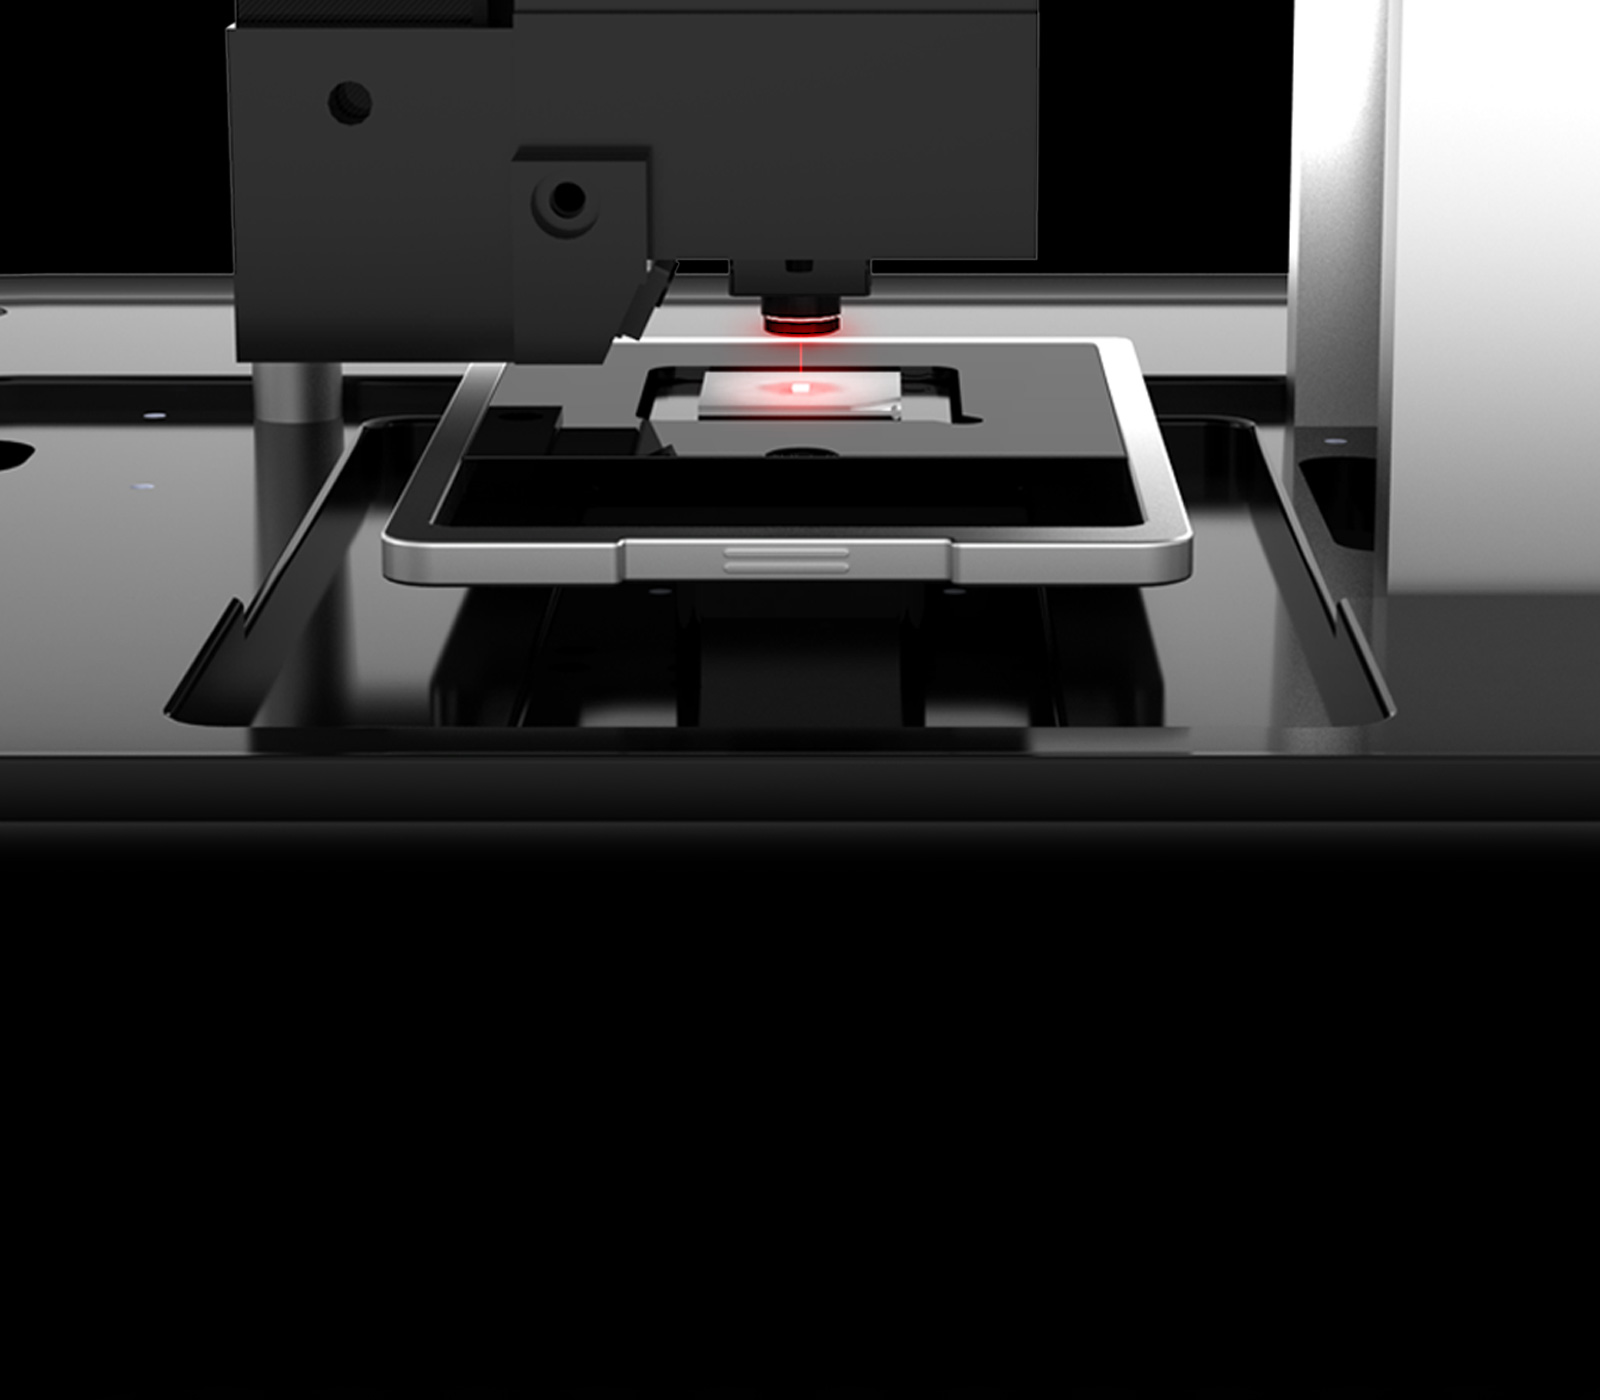
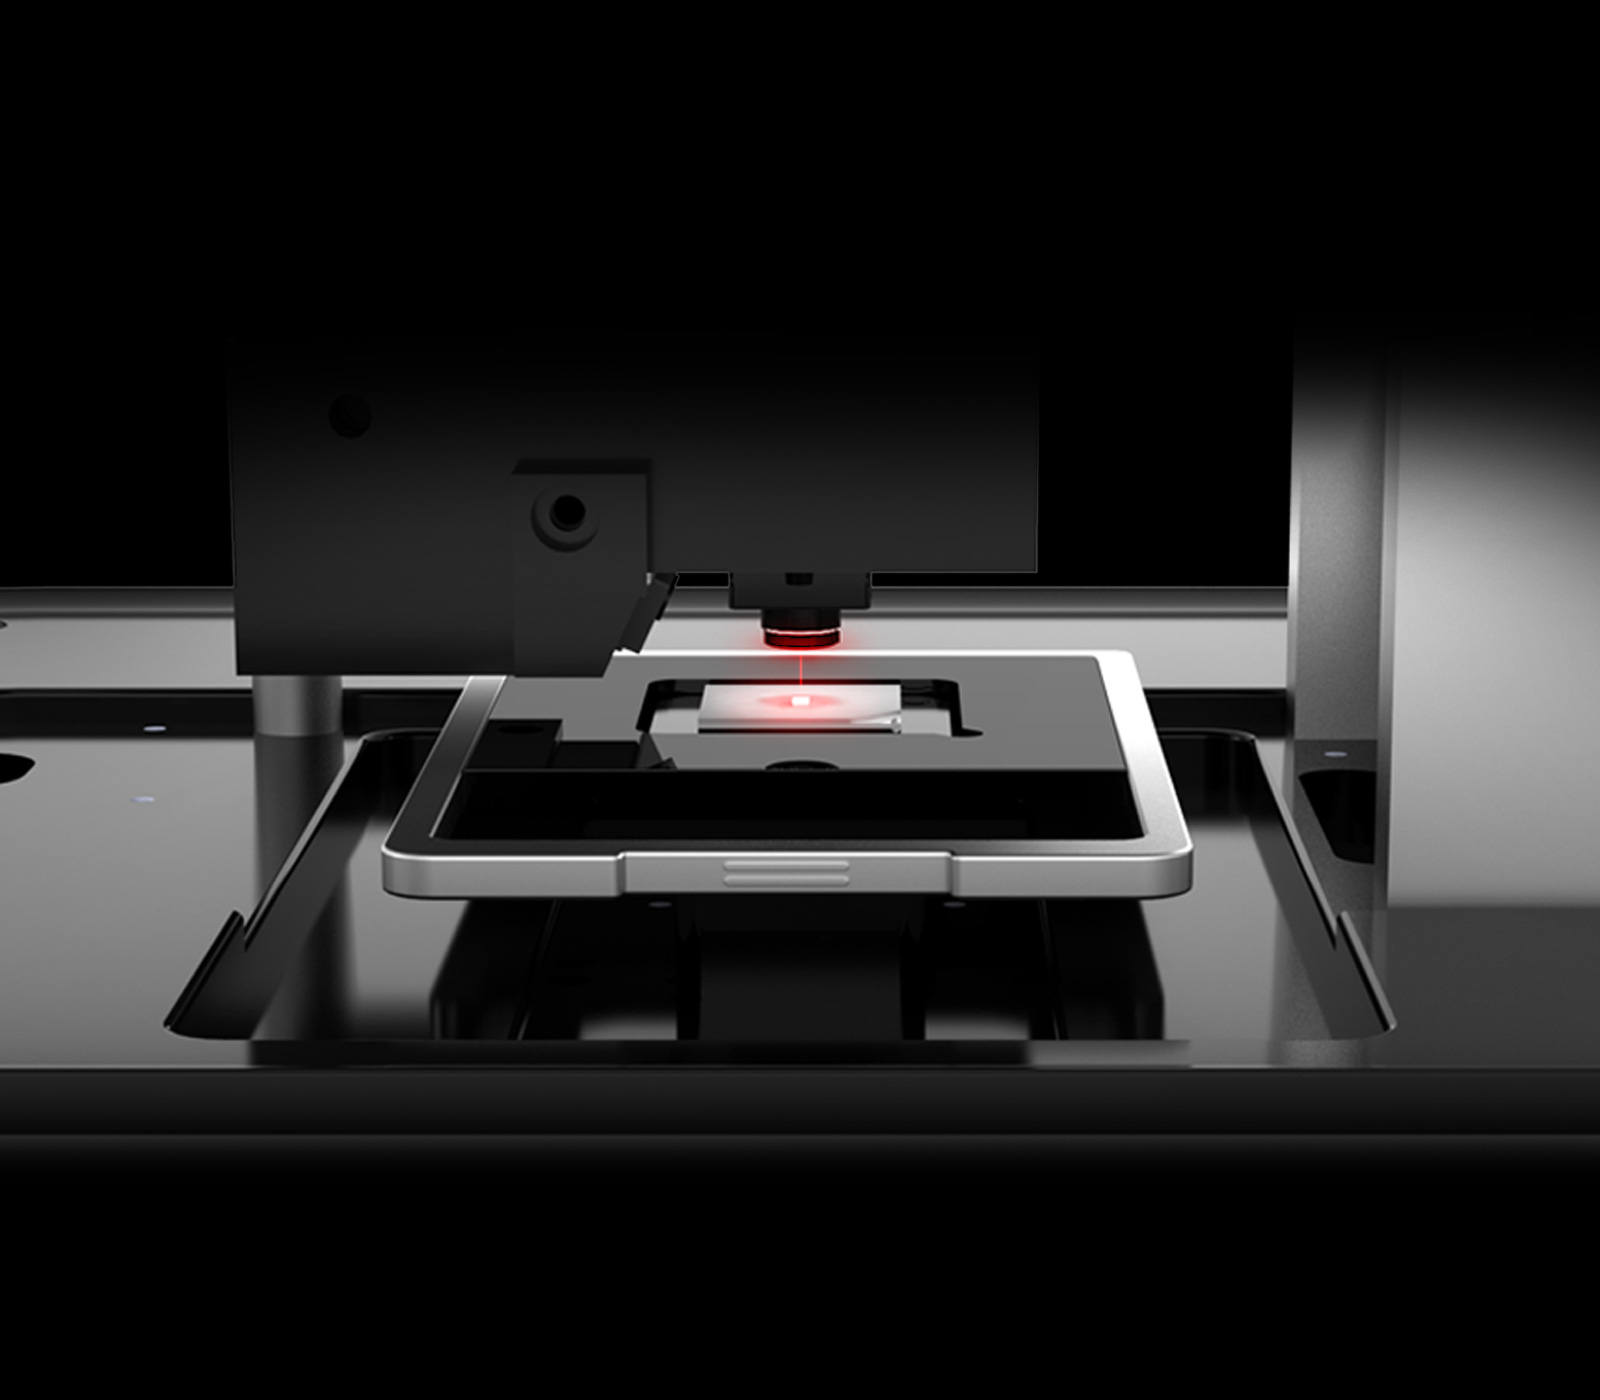
總是在拉點點

diff --git a/product.html b/product.html
@@ -94,6 +94,7 @@
             data-7500 = "top:-100%"
         >
             <div class="content-wrap">
+                <div class="overview-bg"></div>
                 <div class="m150">M150</div>
                 <div class="m150-title"
                     data-0="top:80px"
@@ -194,6 +195,7 @@
         >
             <div class="content-wrap-580"
             >
+                <div class="features-bg"></div>
                 <h2
                     data-7500="opacity:0;padding-top:0px"
                     data-8400="opacity:1;padding-top:40px"
@@ -320,11 +322,14 @@
             data-21000 = "position: fixed; top:100%;opacity:0"
             data-22000 = "position: fixed; top:0;opacity:1"
             data-22100 = "position: fixed; top:0;"
+            data-28100 = "top:0%;opacity:1"
+            data-31000 = "top:-100%:opacity:0"
         >
             <div class="content-wrap-580">
+                <div class="ccd-bg"></div>
                 <div class="CCD-headline"
                     data-22000="top:0%;opacity:0;"
-                    data-23500="top:25%;opacity:1;"
+                    data-23500="top:15%;opacity:1;"
                 >
                 Small-field and large-field CCDs for sample positioning
                 </div>
@@ -332,32 +337,89 @@
                     data-23500="opacity:0"
                     data-24500="opacity:1"
                 class="CCD-light"></div>
+
+                <div class="ccd01 scrollWindow"
+                    data-25000="opacity:0"
+                    data-25500="opacity:1"
+                    data-26400="left:1304px;background-position: 0px 0px"
+                    data-28000="left:-1304px;background-position: 300px 0px"
+                    data-28010="opacity:1"
+                    data-28020="opacity:0"
+
+                >
+                    <div class="ccd01-wrap textWindow ">
+                        <div class="ccd01-text contentWindow">
+                            <h2>Mesurement</h2>
+                            <hr>
+                            <p>
+                                Non-contact and zero
+                                mass-loading, resulting in
+                                no change in stiffness to
+                                the sample
+                            </p>
+                        </div><!-- /ccd01-text -->
+                    </div><!-- /ccd01-wrap -->
+                </div><!-- /ccd01 -->
+
+                <div class="ccd02 scrollWindow"
+                    data-25000="opacity:0"
+                    data-25500="opacity:1"
+                    data-26400="left:1904px;background-position: 0px 0px"
+                    data-28000="left:-900px;background-position: 300px 0px"
+                    data-28010="opacity:1"
+                    data-28020="opacity:0"
+                >
+                    <div class="ccd02-wrap textWindow ">
+                        <div class="ccd02-text contentWindow">
+                            <h2>Mesurement</h2>
+                            <hr>
+                            <p>
+                                Non-contact and zero
+                                mass-loading, resulting in
+                                no change in stiffness to
+                                the sample
+                            </p>
+                        </div><!-- /ccd02-text -->
+                    </div><!-- /ccd02-wrap -->
+                </div><!-- /ccd02 -->
+            </div><!-- /wrap-580 -->
+        </section><!-- ccd -->
+
+
+        <section class="realtime"
+            data-29000 = "position: fixed; top:100%;opacity:0;"
+            data-32000 = "position: fixed; top:0;opacity:1"
+            data-32010 = "top:0;"
+        >
+            <div class="content-wrap-580">
+                <div class="m150-rt"
+                    data-33000 = "left:-800px;opacity:0;"
+                    data-34000 = "left:-320px;opacity:1"
+                ></div>
+                <div class="laptop"
+                    data-33000 = "left:1200px;opacity:0;"
+                    data-34000 = "left:730px;opacity:1"
+                ></div>
+                <div class="zarraw"
+                    data-35000 = "opacity:0;"
+                    data-36000 = "opacity:1"
+                >
+                </div>
+                <p class="realtime-headline"
+                    data-37000="left:1000px;opacity:0"
+                    data-38000="left:700px;opacity:1"
+                >REAL-TIME</p>
+                <p class="realtime-text"
+                    data-37000="left:-210px;opacity:0"
+                    data-38000="left:10px;opacity:1"
+                >
+                    Broadband, out-of-plane, and real-time<br>
+                    frequency response information
+                </p>
             </div>
-
-            <div class="ccd01 scrollWindow"
-                
-                data-25000="opacity:0"
-                data-25500="opacity:1"
-
-                data-28400="left:1304px;background-position: 0px 0px"
-                data-30000="left:-1304px;background-position: 300px 0px"
-            >
-                <div class="ccd01-wrap textWindow">
-                    <div class="ccd01-text contentWindow">
-                        <h2>Mesurement</h2>
-                        <hr>
-                        <p>
-                            Non-contact and zero
-                            mass-loading, resulting in
-                            no change in stiffness to
-                            the sample
-                        </p>
-                    </div><!-- /ccd01-text -->
-                </div><!-- /ccd01-wrap -->
-            </div><!-- /ccd01 -->
-
         </section>
 
+        
         
     </div><!-- /product-wrap -->
 </div><!-- /skrollr -->

diff --git a/css/product.css b/css/product.css
@@ -14,13 +14,28 @@ body.product {
 .overview {
     width:  1600px;
     height: 1400px;
-    background: url(../img/products/m150/overview/m150_overview_1.jpg) no-repeat center center;
+}
+.overview-bg {
+    width:  1600px;
+    height: 1400px;
+    background: url(../img/products/m150/overview/m150_overview_1.jpg) center center;
+    position: absolute;
+    top: -440px;
+    left: -300px;
 }
 .features {
     width:  1600px;
     height: 1400px;
-    background: url(../img/products/m150/features/m150_features_laser.jpg) repeat 0 0;
     border: solid 1px gold;
+}
+
+.features-bg {
+    width:  1600px;
+    height: 1400px;
+    background: url(../img/products/m150/features/m150_features_laser.jpg) center center;
+    position: absolute;
+    top: -410px;
+    left: -300px;
 }
 
 .features h2 {
@@ -35,6 +50,7 @@ body.product {
     min-height: 1400px;
     /*background: url(../img/products/m150/features/xyz/xyz_bg.jpg) center center;*/
     border: solid 1px gold;
+    background-color: black;
 }
 
 .m150-xyz {
@@ -286,7 +302,16 @@ body.product {
 .CCD {
     width: 1600px;
     height: 1400px;
-    background: url(../img/products/m150/features/ccd/2CCDs_bg.jpg) 0 0 no-repeat;
+    /*background: url(../img/products/m150/features/ccd/2CCDs_bg.jpg) 0 0 no-repeat;*/
+}
+
+.ccd-bg {
+    width: 1600px;
+    height: 1400px;
+    background: url(../img/products/m150/features/ccd/2CCDs_bg.jpg) center center;
+    position: absolute;
+    top: -440px;
+    left: -300px;
 }
 
 .CCD-headline {
@@ -300,14 +325,13 @@ body.product {
     text-align: center;
     margin: 0 0;
     padding: 0 0;
-    
 }
 .CCD-light {
     width: 222px;
     height: 105px;
     background: url(../img/products/m150/features/ccd/light.png) 0 0 no-repeat;
     position: absolute;
-    top: 398px;
+    top: 186px;
     left: 482px;
     opacity: 0;
 }
@@ -317,7 +341,7 @@ body.product {
     height: 1000px;
     background: url(../img/products/m150/features/xyz/autofocus.jpg) 0 0;
     position: absolute;
-    top: -1px;
+    top: 0px;
     left: 1304px;
 }
 .ccd01 img {
@@ -333,36 +357,55 @@ body.product {
     margin-left: 300px;
 }
 
-#CCD1 {
+.ccd02 {
     width: 300px;
     height: 1000px;
-    background: url(../img/products/m150/features/ccd/ccd1.jpg) center center no-repeat;
+    background: url(../img/products/m150/features/xyz/autofocus.jpg) 0 0;
     position: absolute;
     top: 0px;
-    left: 0px;
-    /*opacity: 1;   */
+    left: 1304px;
 }
-#CCD1-text {
-    margin-left:300px;
-    background-color:red; 
-    width:300px;
-    height:1000px;
+.ccd02 img {
+    position: absolute;
+    top: 480px;
+    left: 150px;
+
+}
+.ccd02-wrap {
+    background-color: rgb(33, 77, 99);
+    height: 100%;
+    width: 100%;
+    margin-left: 300px;
 }
 
-#CCD2 {
-    width: 300px;
-    height: 1000px;
-    background: url(../img/products/m150/features/ccd/ccd2.jpg) center center no-repeat;
+.laptop {
+    width: 746px;
+    height: 549px;
+    background: url(../img/products/m150/features/realtime/laptop.png) 0 0;
     position: absolute;
-    top: 0px;
+    top: 30px;
     left: 800px;
-    /*opacity: 1;   */
+    opacity: 0;
 }
-#CCD2-text {
-    margin-left:300px;
-    background-color:red; 
-    width:300px;
-    height:1000px;
+
+.m150-rt {
+    width: 598px;
+    height: 517px;
+    background: url(../img/products/m150/features/realtime/m150.png) 0 0;
+    position: absolute;
+    top: 30px;
+    left: -400px;
+    opacity: 0;
+}
+
+.zarraw {
+    width: 731px;
+    height: 288px;
+    background: url(../img/products/m150/features/realtime/Zarrow.png) 0 0;
+    position: absolute;
+    top: 164px;
+    left: 140px;
+    opacity: 0;
 }
 
 .CCD-wrap {
@@ -370,24 +413,25 @@ body.product {
     top: 300px;
 }
 
-#realtime {
+.realtime {
     width: 1600px;
     height: 1639px;
     background: url(../img/products/m150/features/realtime/realtime_bg.jpg) 0 0 no-repeat;
     position: absolute;
 }
 
-#realtime-arraw {
-    width: 731px;
-    height: 288px;
-    background: url(../img/products/m150/features/realtime/Zarrow.png) center center no-repeat;
+.realtime-headline {
+    top: 180px;
+    left: 810px;
     position: absolute;
-    top: 680px;
-    left: 440px;
+    font-size: 40px;
+    width: 400px;
 }
-#realtime-text {
 
-}
-#realtime-content {
-
+.realtime-text {
+    top: 280px;
+    left: 10px;
+    position: absolute;
+    font-size: 20px;
+    text-align: center;
 }

diff --git a/js/product.js b/js/product.js
@@ -84,11 +84,6 @@ jQuery(document).ready(function(){
                  "top"  : _CONTENT_WRAP_580_X
             });
 
-            // console.log(_CONTENT_WRAP_580_X);
-            // console.log(_CONTENT_WRAP_580_Y);
-            // console.log(_CONTENT_WRAP_580_HEIGHT);
-            // console.log(_CONTENT_WRAP_580_WIDTH);
-
             if (jQuery(this).find('.scrollWindow')) {
 
                 var _x = 0,
@@ -96,21 +91,12 @@ jQuery(document).ready(function(){
                     _h = 0,
                     _w = 0;
 
-                // console.log('top = ' + jQuery(this).offset().top);
-                // console.log('left = ' + jQuery(this).offset().left);
-                // console.log('height = ' + jQuery(this).height());
-                // console.log('width = ' + jQuery(this).width());
-
                 _h = jQuery(this).height() / 2;
                 _x = jQuery(this).offset().top - _h + "px";
-
-                // console.log(_x);
-                // console.log(_h);
 
                 jQuery(this).find('.scrollWindow').css({
                     "top" : "-200px"
                 });
-
             }
 
         });
